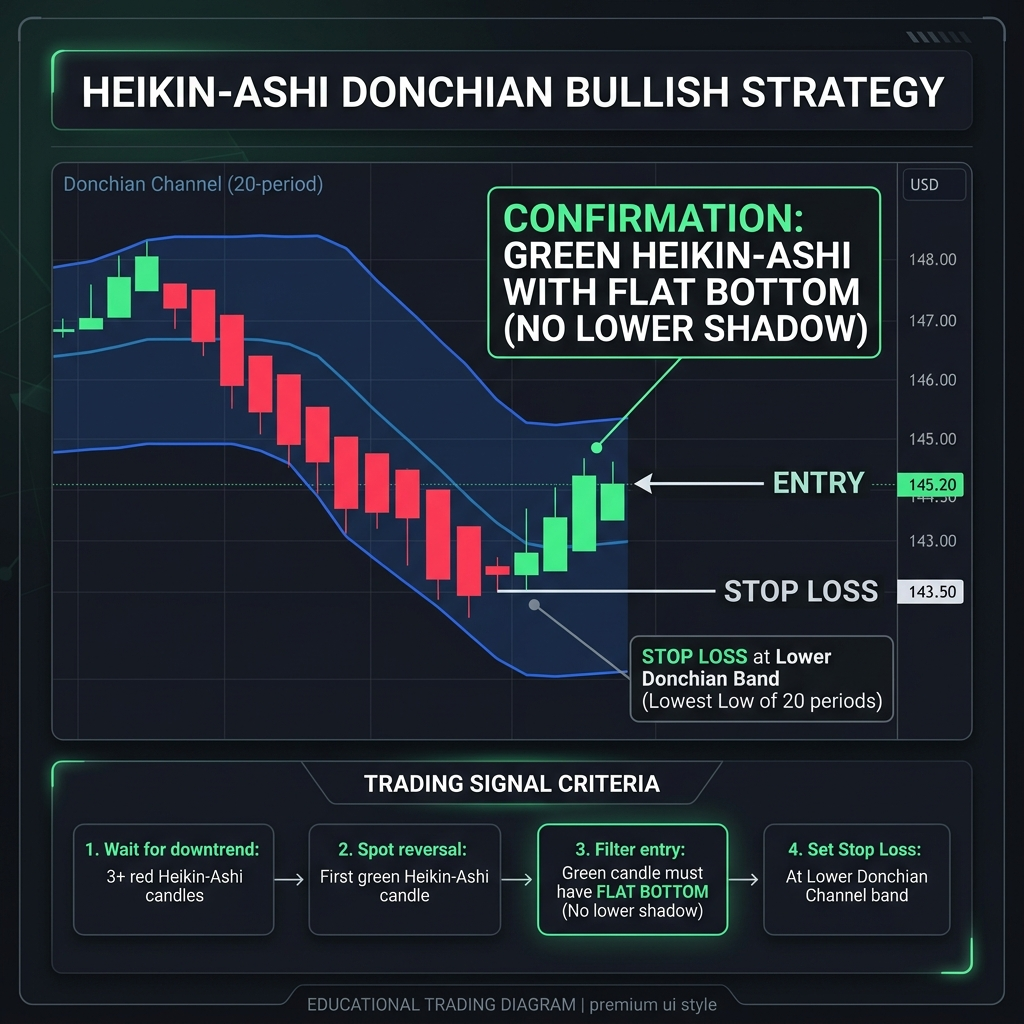
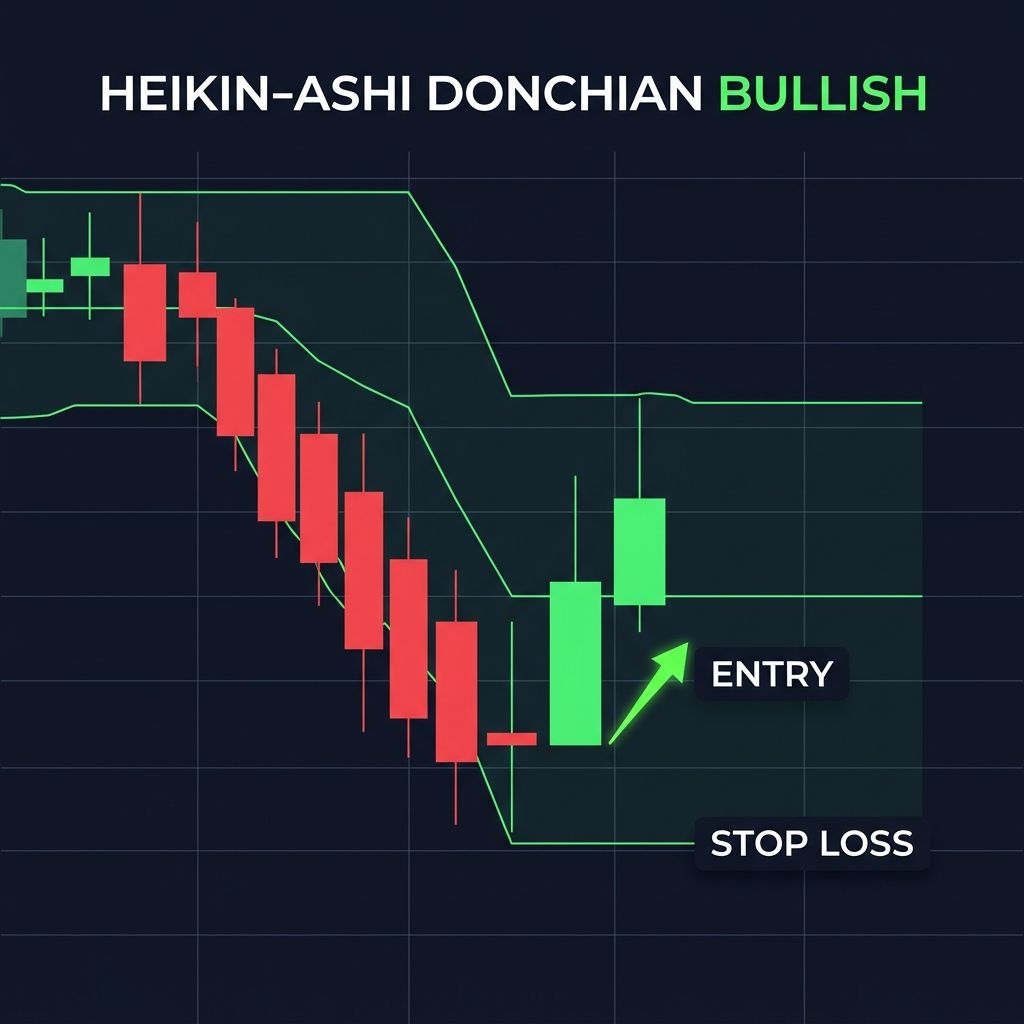
docs: correct entry candle annotation on Heikin-Ashi Donchian diagrams and bust image cache

diff --git a/js/ui/app.js b/js/ui/app.js
@@ -181,12 +181,12 @@ const STRATEGY_INFO = {
   ha_donchian_bullish: {
     name: 'HA Donchian Bullish',
     desc: 'A mechanical trend-following strategy by Brijesh Bhatia. It uses smoothed Heikin-Ashi candles to filter market noise and identifies early bullish reversals when the Heikin-Ashi candle color flips green with a flat bottom (no lower shadow) after at least 3 red exhaustion candles. Trades are trailed dynamically using the Donchian Channel.',
-    example: '<img src="/assets/ha_donchian_bullish_diagram.png" style="width:100%; border-radius:6px; margin-bottom:12px; border:1px solid rgba(255,255,255,0.1);"><strong>Entry:</strong> Buy on close of the confirmation green HA candle.<br><strong>Stop Loss:</strong> Trailing stop at the lower Donchian Channel band (lowest low of last 3 candles for swing, 5 candles for weekly positional, or 2 candles for scalping).<br><strong>Target:</strong> Ride the trend until the trailing stop is hit (no fixed target).<br><br><span style="color:var(--text-muted)"><strong>Context:</strong> E.g., RELIANCE drops for 4 days (3+ red HA candles). Today, it prints a green HA candle with no lower shadow (flat bottom). You buy and trail the lowest low of the last 3 days.</span>'
+    example: '<img src="/assets/ha_donchian_bullish_diagram.png?v=2" style="width:100%; border-radius:6px; margin-bottom:12px; border:1px solid rgba(255,255,255,0.1);"><strong>Entry:</strong> Buy on close of the confirmation green HA candle.<br><strong>Stop Loss:</strong> Trailing stop at the lower Donchian Channel band (lowest low of last 3 candles for swing, 5 candles for weekly positional, or 2 candles for scalping).<br><strong>Target:</strong> Ride the trend until the trailing stop is hit (no fixed target).<br><br><span style="color:var(--text-muted)"><strong>Context:</strong> E.g., RELIANCE drops for 4 days (3+ red HA candles). Today, it prints a green HA candle with no lower shadow (flat bottom). You buy and trail the lowest low of the last 3 days.</span>'
   },
   ha_donchian_bearish: {
     name: 'HA Donchian Bearish',
     desc: 'A mechanical trend-following strategy by Brijesh Bhatia. Identifies early bearish reversals when the Heikin-Ashi candle flips red with a flat top (no upper shadow) after at least 3 green exhaustion candles. Trades are trailed dynamically using the Donchian Channel.',
-    example: '<img src="/assets/ha_donchian_bearish_diagram.png" style="width:100%; border-radius:6px; margin-bottom:12px; border:1px solid rgba(255,255,255,0.1);"><strong>Entry:</strong> Short/Sell on close of the confirmation red HA candle.<br><strong>Stop Loss:</strong> Trailing stop at the upper Donchian Channel band (highest high of last 3 candles for swing, 5 candles for weekly positional, or 2 candles for scalping).<br><strong>Target:</strong> Ride the trend until the trailing stop is hit.<br><br><span style="color:var(--text-muted)"><strong>Context:</strong> E.g., SBIN rallies for 5 days (3+ green HA candles). Today, it prints a red HA candle with no upper shadow (flat top). You short and trail the highest high of the last 3 days.</span>'
+    example: '<img src="/assets/ha_donchian_bearish_diagram.png?v=2" style="width:100%; border-radius:6px; margin-bottom:12px; border:1px solid rgba(255,255,255,0.1);"><strong>Entry:</strong> Short/Sell on close of the confirmation red HA candle.<br><strong>Stop Loss:</strong> Trailing stop at the upper Donchian Channel band (highest high of last 3 candles for swing, 5 candles for weekly positional, or 2 candles for scalping).<br><strong>Target:</strong> Ride the trend until the trailing stop is hit.<br><br><span style="color:var(--text-muted)"><strong>Context:</strong> E.g., SBIN rallies for 5 days (3+ green HA candles). Today, it prints a red HA candle with no upper shadow (flat top). You short and trail the highest high of the last 3 days.</span>'
   }
 };
 
